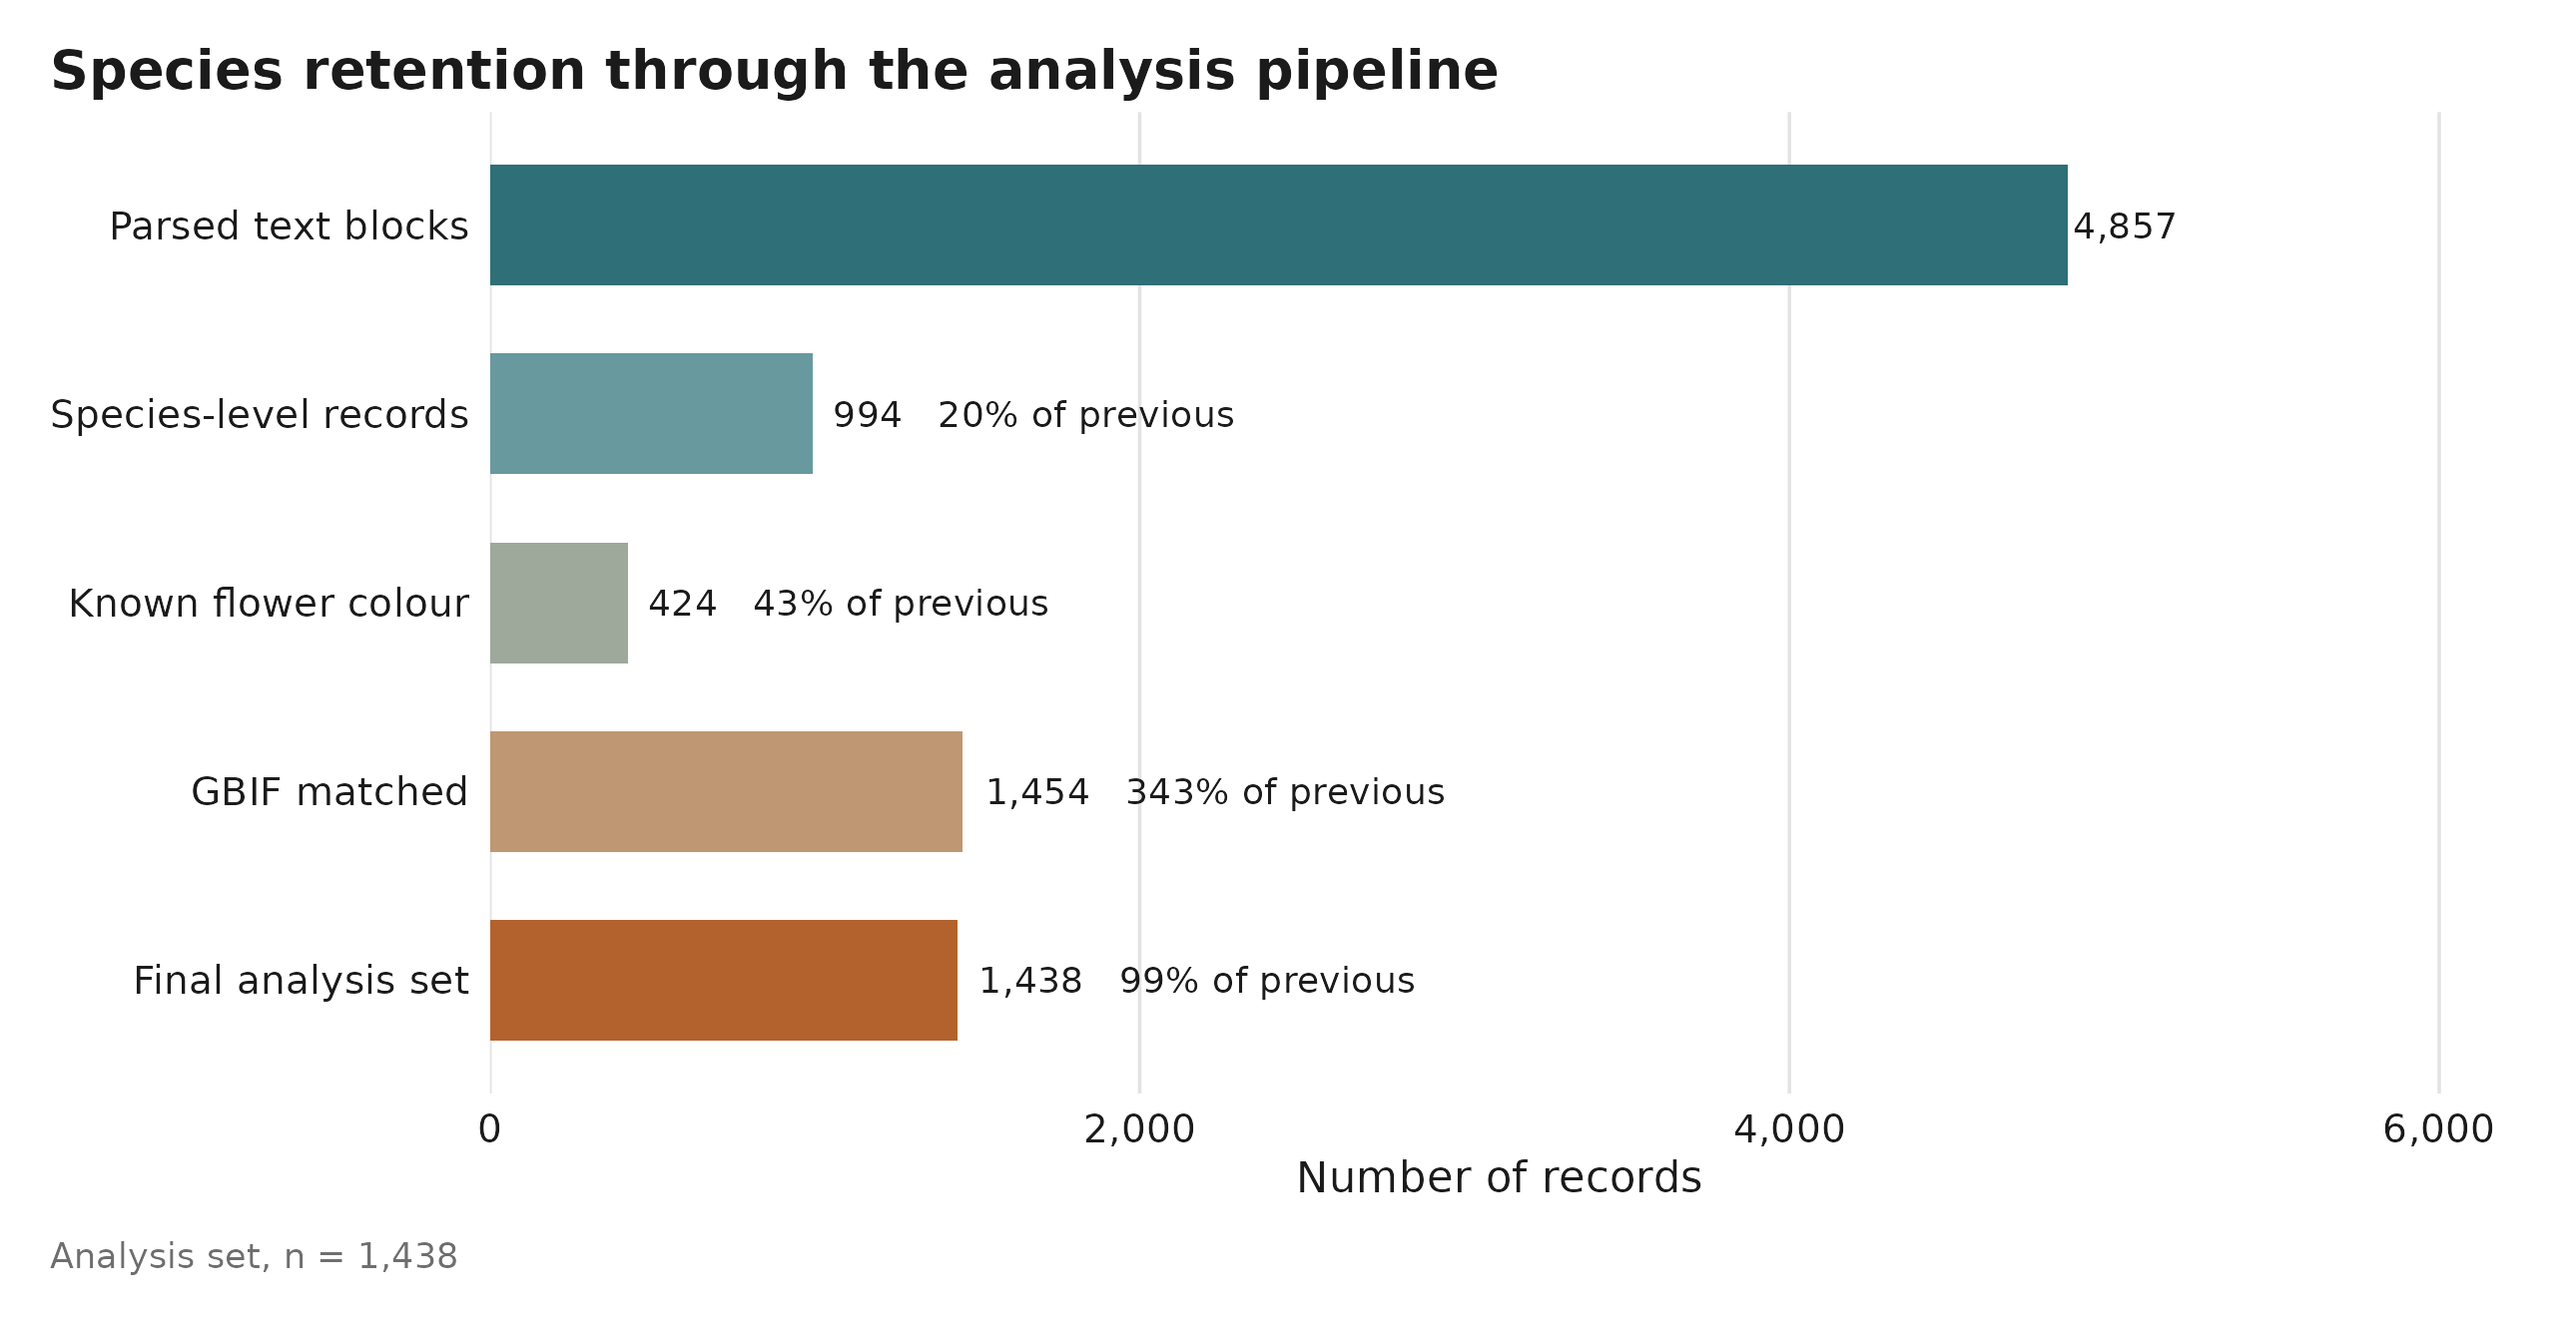
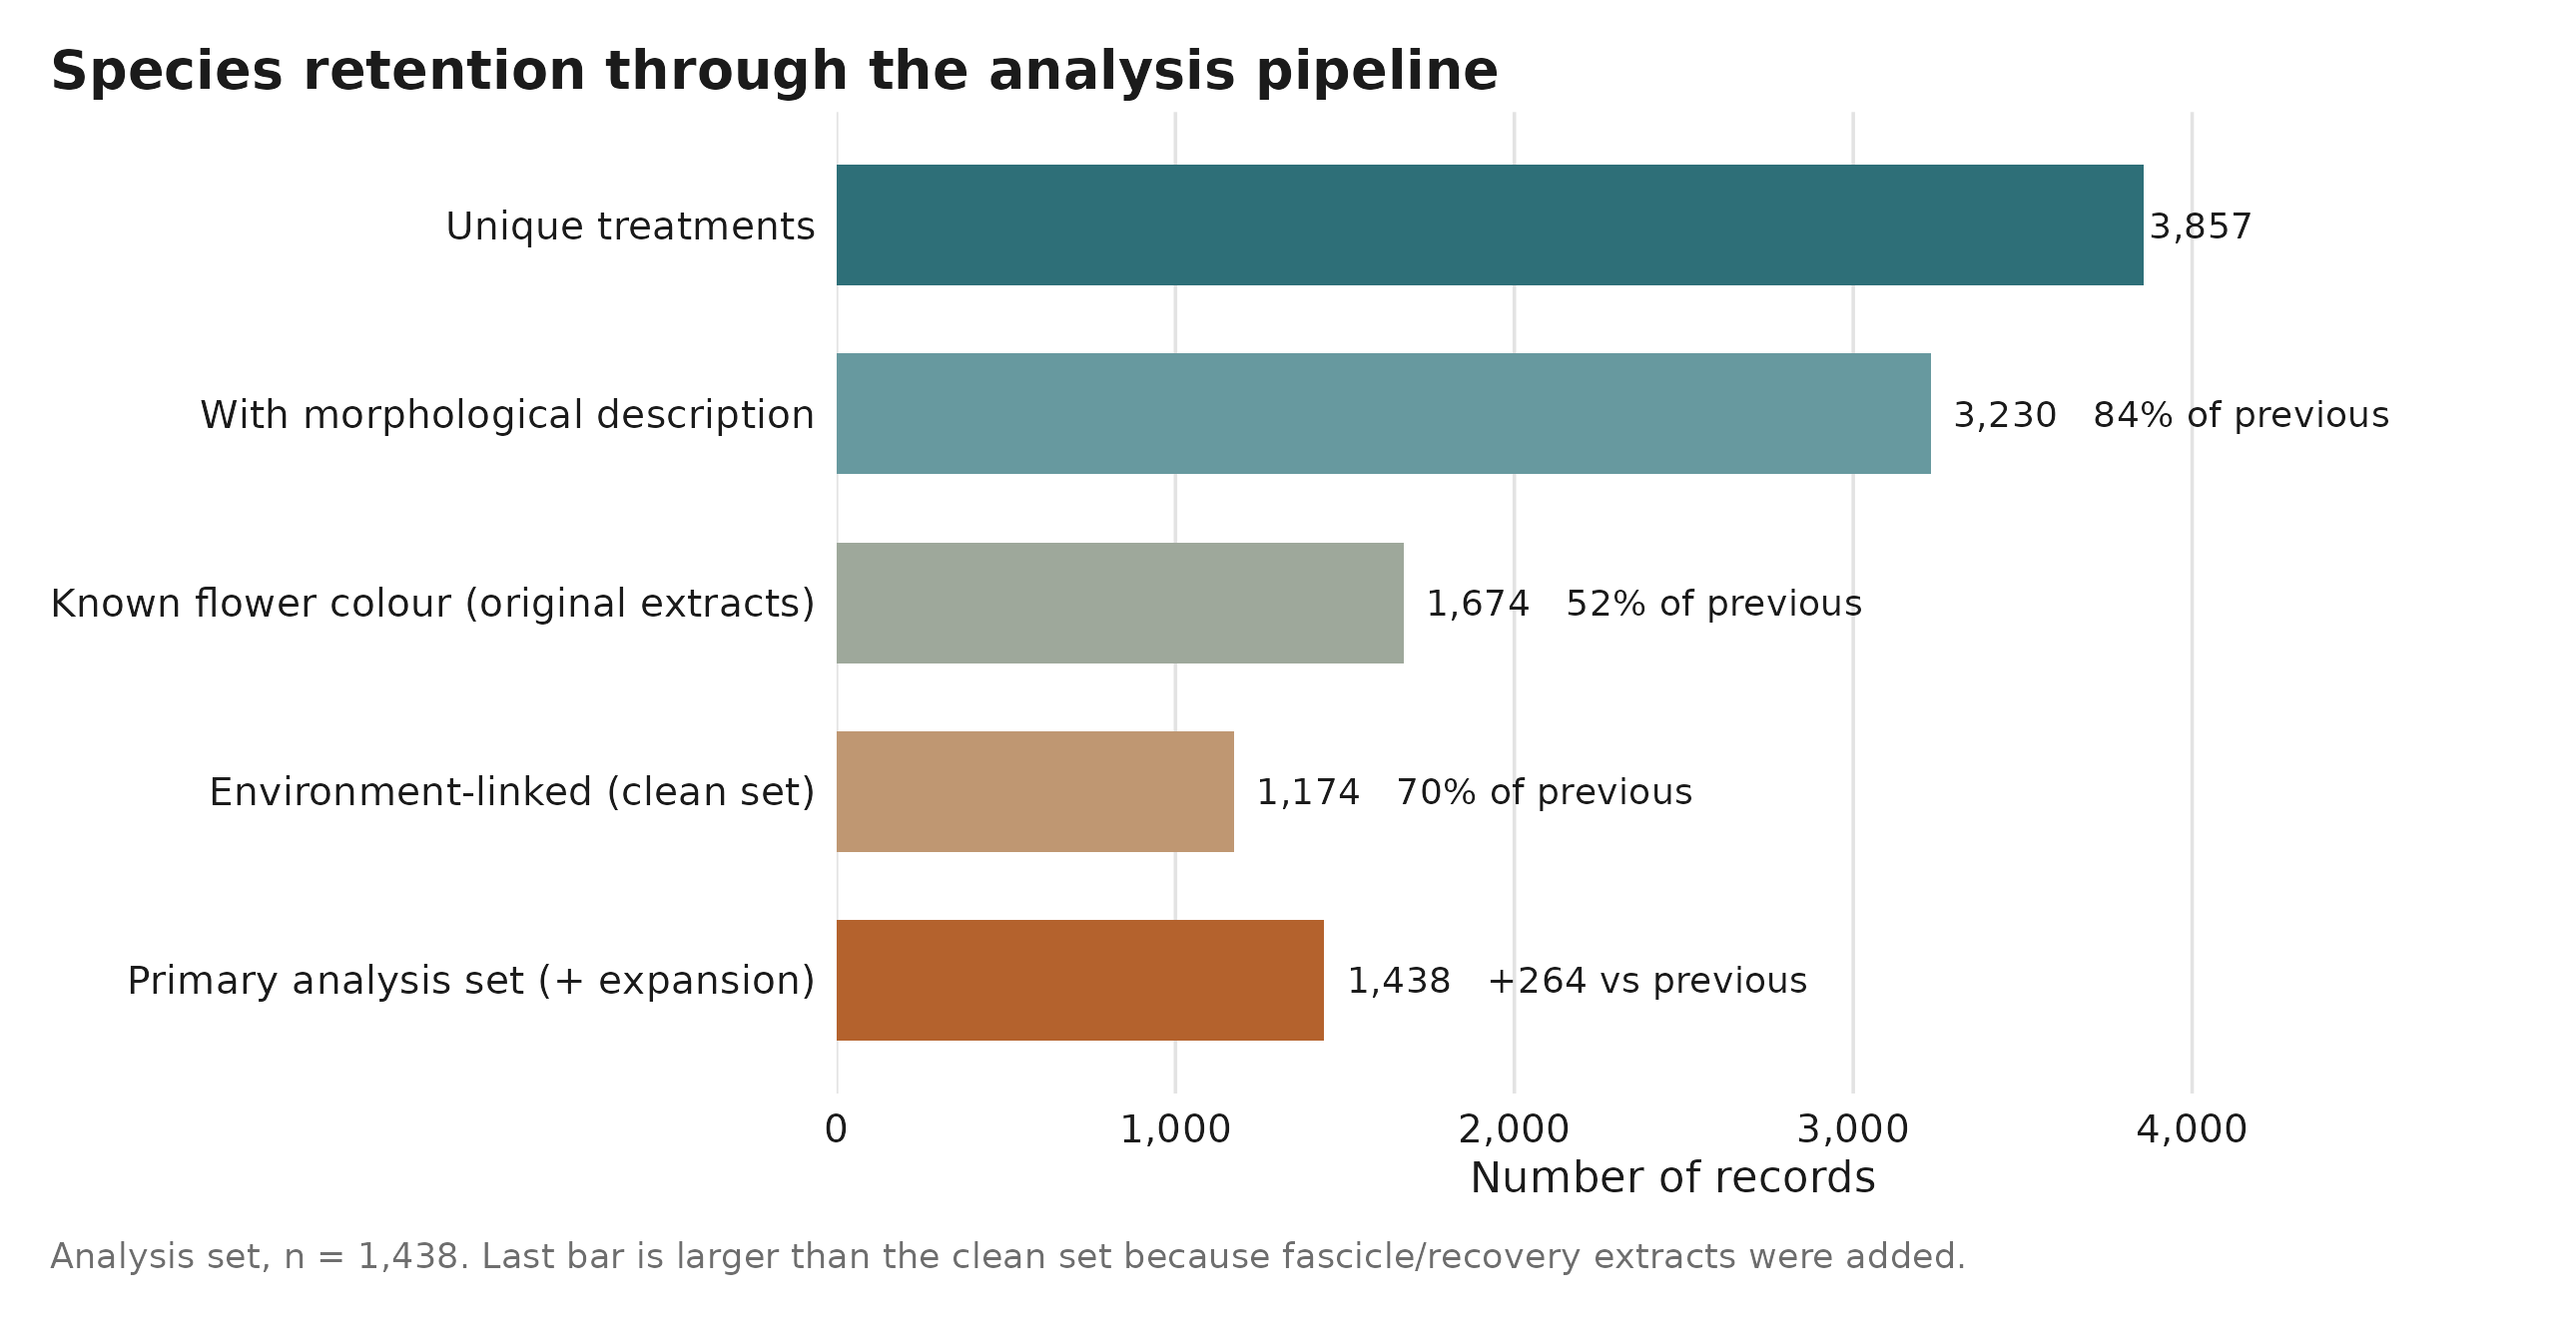
Fix fig5 pipeline counts and close remaining publish/doc holes
fig5 was the last wrong published figure: it unique()'d a missing binomial
column on clean_species_only.csv, so the middle bars were 994 / 424 taken
only from the 1,000-row expansion file, then jumped to 1,454 GBIF matches.
It now uses the verified funnel 3,857 → 3,230 → 1,674 → 1,174 → 1,438
(stopifnot-guarded) and labels the last step as +264 from expansion.

Also: §1 no longer claims the prediction task uses the clean n=1,174 set
(it uses n=1,438); script 23 now publishes fig14 into Results/ like 22;
Results/README lists the reliability figures.

Audit: 154 PASS / 0 FAIL / 0 PENDING.

diff --git a/scripts/27_Audit_All_Numbers.py b/scripts/27_Audit_All_Numbers.py
@@ -26,7 +26,7 @@ EXP = ROOT / "Processed Data" / "experiments"
 REL = EXP / "reliability"
 
 # ---------------------------------------------------------------- expected values
-E_CORPUS = {"treatments": 3857, "with_description": 3230}
+E_CORPUS = {"treatments": 3857, "with_description": 3230, "known_colour_original": 1674}
 E_ECOLOGY = {"primary_n": 1438, "primary": {"WHITE": 613, "YELLOW": 494, "REDTYPE": 331},
              "clean_n": 1174, "clean": {"WHITE": 502, "YELLOW": 428, "REDTYPE": 244}}
 E_GOLD = {"template": 100, "labelled": 98, "junk": 9, "n89": 89}
@@ -164,6 +164,15 @@ same("ecology", "primary colours", dict(Counter(r["color_group"] for r in prim))
 clean = read(EXP / "step05b_outputs_clean/species_color_environment_final_clean.csv")
 same("ecology", "clean n", len(clean), E_ECOLOGY["clean_n"])
 same("ecology", "clean colours", dict(Counter(r["color_group"] for r in clean)), E_ECOLOGY["clean"])
+# fig5 used to unique() a missing binomial column and report 994 / 424. Guard that.
+csp = read(EXP / "clean_species_only.csv")
+known_cats = {"WHITE", "YELLOW", "RED", "PINK", "PURPLE/BLUE"}
+n_known = sum(1 for r in csp if r.get("color_category") in known_cats)
+same("ecology", "known colour on original extracts (fig5)", n_known,
+     E_CORPUS["known_colour_original"])
+same("ecology", "fig5 funnel is monotonic until expansion",
+     E_CORPUS["treatments"] > E_CORPUS["with_description"] > n_known > E_ECOLOGY["clean_n"]
+     and E_ECOLOGY["primary_n"] > E_ECOLOGY["clean_n"], True)
 
 # ------------------------------------------------------------- 3 gold + benchmark
 section("Gold set / RQ1 / RQ3")

diff --git a/scripts/23_Build_Prediction_Figure.py b/scripts/23_Build_Prediction_Figure.py
@@ -15,12 +15,14 @@ Panel C  permutation importance. Message: PC2 alone carries the signal, which
 
 READS : Processed Data/experiments/prediction_outputs/
 WRITES: Processed Data/experiments/figures/fig14_prediction.{png,pdf}
+        and Results/figures/methods/ (same publish step as script 22)
 """
 
 from __future__ import annotations
 
 import json
 import os
+import shutil
 from pathlib import Path
 
 os.environ.setdefault("MPLCONFIGDIR", "/tmp/mplconfig")
@@ -203,11 +205,16 @@ def main():
         ha="left", va="bottom", fontsize=8.2, color=MUTED,
     )
 
+    publish = BASE / "Results" / "figures" / "methods"
+    publish.mkdir(parents=True, exist_ok=True)
     for ext in ("png", "pdf"):
         fig.savefig(OUT / f"fig14_prediction.{ext}", dpi=400,
                     facecolor="white", bbox_inches=None)
+        shutil.copyfile(OUT / f"fig14_prediction.{ext}",
+                        publish / f"fig14_prediction.{ext}")
     plt.close(fig)
     print(f"Saved {OUT}/fig14_prediction.png and .pdf")
+    print(f"Published to {publish}")
 
 
 if __name__ == "__main__":

diff --git a/docs/VERIFIED_Numbers_for_Thesis.md b/docs/VERIFIED_Numbers_for_Thesis.md
@@ -12,7 +12,7 @@ Source: `Processed Data/experiments/expansion/step05b_outputs/species_color_envi
 Figures: `Results/figures/` synced by `scripts/07_Generate_Figures.R`.  
 The earlier n=1,174 ecology outputs remain under `Processed Data/experiments/` (not published figures).
 
-### Prior clean set (historical / RQ4 / prediction)
+### Prior clean set (historical / RQ4 only)
 
 | Quantity | Exact value |
 |---|---:|
@@ -20,7 +20,9 @@ The earlier n=1,174 ecology outputs remain under `Processed Data/experiments/` (
 | WHITE / YELLOW / REDTYPE | 502 / 428 / 244 |
 
 Source: `Processed Data/experiments/step05b_outputs_clean/species_color_environment_final_clean.csv`  
-Used by RQ4 label-sensitivity and the prediction task; **not** the published ecology figure set.
+Used by **RQ4 label-sensitivity** (the four label-source variants sit on this
+n=1,174 environment table). **Not** the published ecology figure set, and **not**
+the prediction task — prediction was refreshed on the primary n=1,438 set (§7c).
 
 ---
 

diff --git a/Results/README.md b/Results/README.md
@@ -6,8 +6,11 @@ Results/
 │   ├── ecology/         fig1–fig6  colour, climate models, elevation
 │   ├── methods/         fig7–fig14 gold set, errors, RAG, prediction
 │   └── supplementary/   extra coefficient and trace plots
-└── tables/
-    ├── mcmc/            colour–environment model output
-    ├── elevation/       elevation-band tables
-    └── descriptive/     colour counts, PCA loadings
+├── tables/
+│   ├── mcmc/            colour–environment model output
+│   ├── elevation/       elevation-band tables
+│   └── descriptive/     colour counts, PCA loadings
 ```
+
+Last synced: 2026-09-21 16:12:33.349745
+Analysis N: 1438

diff --git a/README.md b/README.md
@@ -59,6 +59,7 @@ python -m venv .venv_figs && .venv_figs/bin/pip install matplotlib numpy pandas 
 # 22 now publishes straight into Results/figures/methods/ (no manual copy step)
 .venv_figs/bin/python scripts/22_Build_Method_Figures.py
 .venv_figs/bin/python scripts/21_Predict_Colour_from_Env.py
+# 23 publishes fig14 into Results/figures/methods/ (same as 22)
 .venv_figs/bin/python scripts/23_Build_Prediction_Figure.py
 ```
 
